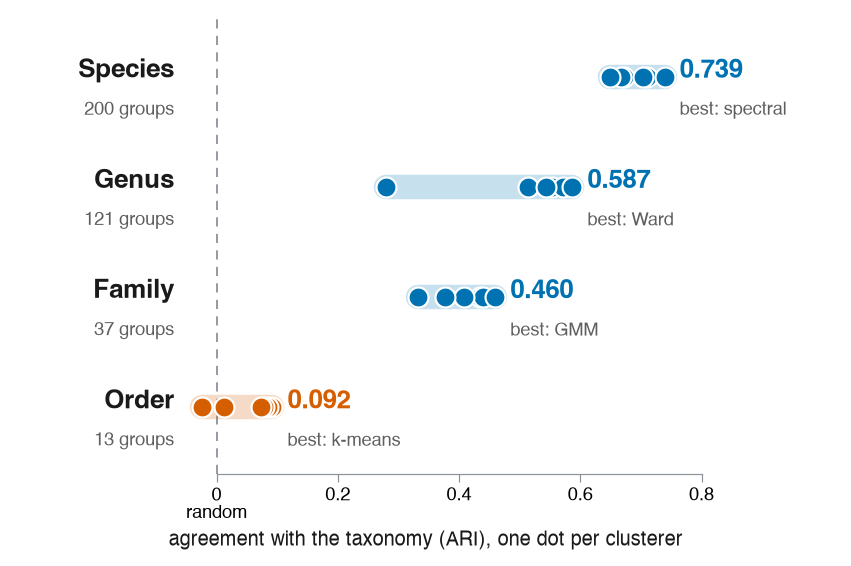
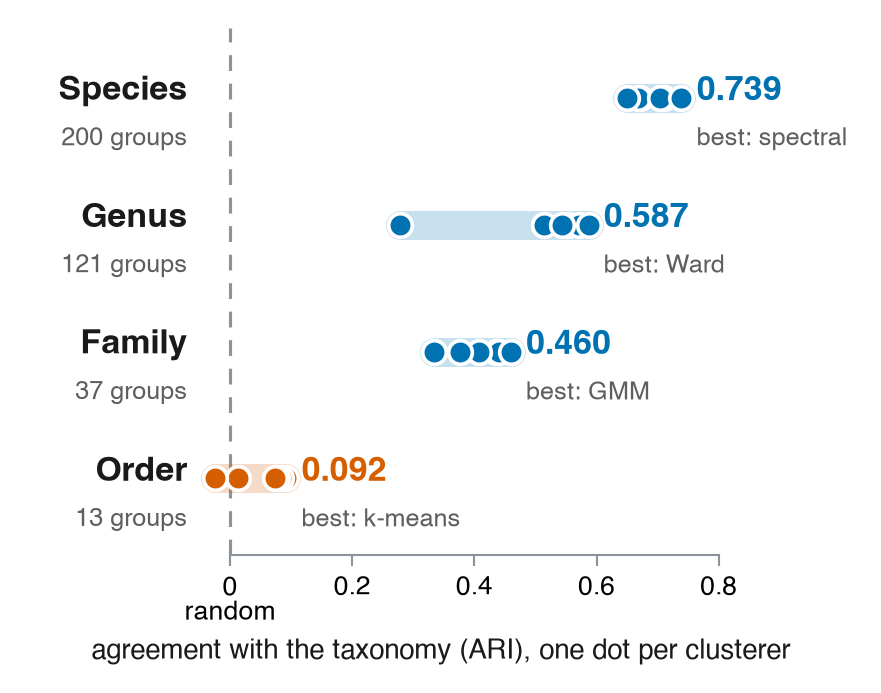
README: dot chart drawn on a smaller canvas so its labels read at half width

diff --git a/docs/make_readme_figures.py b/docs/make_readme_figures.py
@@ -49,27 +49,27 @@ def methods_figure() -> None:
             "ward": "Ward", "gmm_diag": "GMM", "spectral": "spectral"}
     _, oracle, _ = common.load_labels()
     blue, red = "#0072B2", "#D55E00"
-    fig, ax = plt.subplots(figsize=(9.6, 5.4))
+    fig, ax = plt.subplots(figsize=(5.6, 3.6))          # small canvas: shown at half the README width
     rows = [("species", "Species"), ("genus", "Genus"), ("family", "Family"), ("order", "Order")]
     for y, (rank, label) in enumerate(reversed(rows)):
         vals = {m: E2[m][rank]["ari"]["mean"] for m in name}
         lo, hi = min(vals.values()), max(vals.values()); best = max(vals, key=vals.get)
         c = red if rank == "order" else blue
-        ax.plot([lo, hi], [y, y], color=c, lw=16, alpha=0.22, solid_capstyle="round", zorder=1)
-        ax.scatter(list(vals.values()), [y] * len(vals), s=170, color=c, edgecolor="white", linewidth=1.4, zorder=3)
-        ax.text(hi + 0.025, y + 0.06, f"{hi:.3f}", va="center", ha="left", fontsize=17, fontweight="bold", color=c)
-        ax.text(hi + 0.025, y - 0.30, f"best: {name[best]}", va="center", ha="left", fontsize=12, color=MUT)
-        ax.text(-0.07, y + 0.06, label, va="center", ha="right", fontsize=17, fontweight="bold", color=INK)
-        ax.text(-0.07, y - 0.30, f"{oracle[rank]} groups", va="center", ha="right", fontsize=12, color=MUT)
+        ax.plot([lo, hi], [y, y], color=c, lw=11, alpha=0.22, solid_capstyle="round", zorder=1)
+        ax.scatter(list(vals.values()), [y] * len(vals), s=80, color=c, edgecolor="white", linewidth=1.4, zorder=3)
+        ax.text(hi + 0.025, y + 0.06, f"{hi:.3f}", va="center", ha="left", fontsize=13, fontweight="bold", color=c)
+        ax.text(hi + 0.025, y - 0.32, f"best: {name[best]}", va="center", ha="left", fontsize=9.5, color=MUT)
+        ax.text(-0.07, y + 0.06, label, va="center", ha="right", fontsize=13, fontweight="bold", color=INK)
+        ax.text(-0.07, y - 0.32, f"{oracle[rank]} groups", va="center", ha="right", fontsize=9.5, color=MUT)
     ax.axvline(0, color="#8d939c", lw=1.2, ls=(0, (5, 4)), zorder=0)
     ax.set_xlim(-0.33, 1.02); ax.set_ylim(-0.6, 3.55); ax.set_yticks([])
     ax.set_xticks([0, 0.2, 0.4, 0.6, 0.8]); ax.set_xticklabels(["0\nrandom", "0.2", "0.4", "0.6", "0.8"])
-    ax.set_xlabel("agreement with the taxonomy (ARI), one dot per clusterer", fontsize=13, color=INK, labelpad=6)
-    ax.tick_params(axis="x", labelsize=12, length=5, color="#8d939c")
+    ax.set_xlabel("agreement with the taxonomy (ARI), one dot per clusterer", fontsize=10.5, color=INK, labelpad=5)
+    ax.tick_params(axis="x", labelsize=10, length=4, color="#8d939c")
     for s in ("top", "right", "left"):
         ax.spines[s].set_visible(False)
     ax.spines["bottom"].set_color("#8d939c"); ax.spines["bottom"].set_bounds(0, 0.8)
-    fig.savefig(OUT / "methods.png", dpi=110, bbox_inches="tight", pad_inches=0.15, facecolor="white",
+    fig.savefig(OUT / "methods.png", dpi=190, bbox_inches="tight", pad_inches=0.15, facecolor="white",
                 metadata={"Software": None}); plt.close(fig)
     print("wrote", OUT / "methods.png")
 
